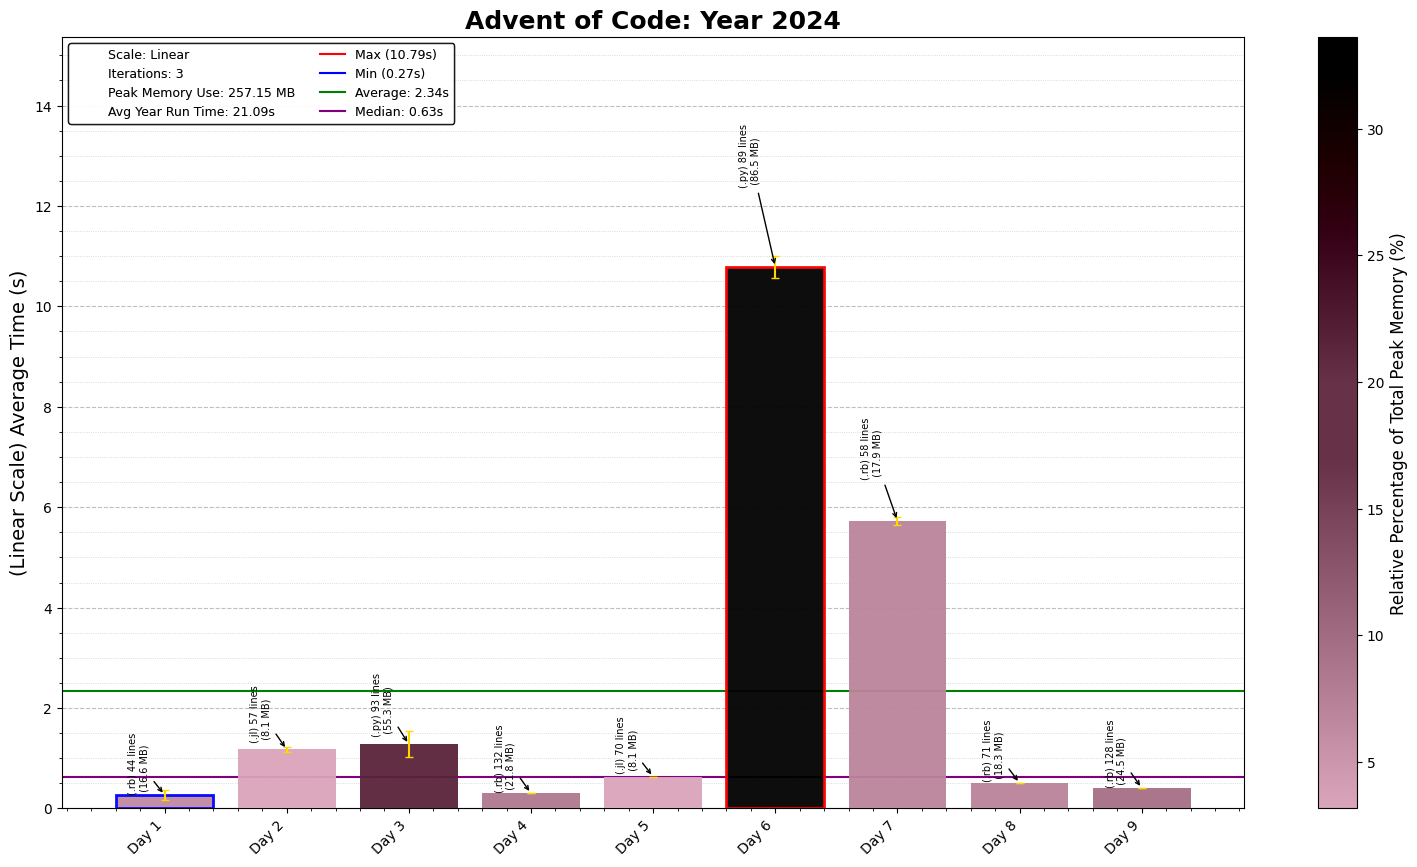
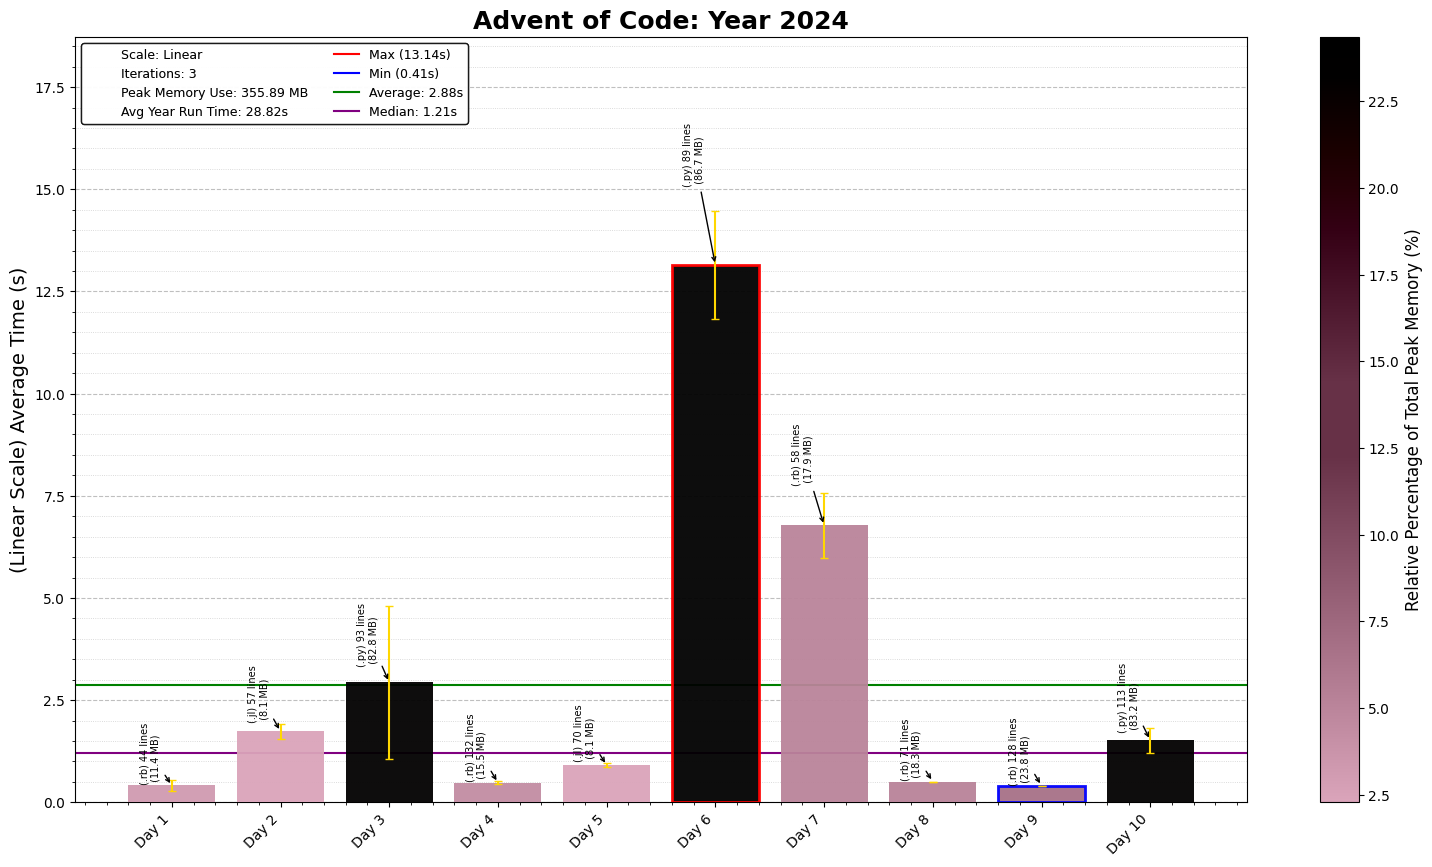
2024 Day 10

diff --git a/2024/10/2024Day10.py b/2024/10/2024Day10.py
@@ -1,0 +1,113 @@
+"""Advent of Code - Day 10, Year 2024
+Solution Started: Dec 10, 2024
+Puzzle Link: https://adventofcode.com/2024/day/10
+Solution by: abbasmoosajee07
+Brief: [Hiking Trails]
+"""
+
+#!/usr/bin/env python3
+
+import os, re, copy
+import numpy as np
+import pandas as pd
+import matplotlib.pyplot as plt
+from collections import deque
+
+# Load the input data from the specified file path
+D10_file = "Day10_input.txt"
+D10_file_path = os.path.join(os.path.dirname(os.path.abspath(__file__)), D10_file)
+
+# Read and sort input data into a grid
+with open(D10_file_path) as file:
+    input_data = file.read().strip().split('\n')
+    map_grid = np.array([[int(num) for num in list(row)] for row in input_data])
+
+def find_all_zeros(grid):
+    zeros_positions = []
+    for row in range(len(grid)):
+        for col in range(len(grid[0])):
+            if grid[row][col] == 0:
+                zeros_positions.append((row, col))
+    return zeros_positions
+
+def find_trails(grid, start):
+    rows, cols = len(grid), len(grid[0])  # Dimensions of the grid
+    visited = set()  # Track visited cells
+    queue = deque([start])  # Initialize the queue with the start cell
+    visited.add(start)  # Mark the start cell as visited
+    
+    # Directions for neighbors (up, down, left, right)
+    directions = [(-1, 0), (1, 0), (0, -1), (0, 1)]
+    
+    result = []  # To store all reachable cells with value 9
+    
+    while queue:
+        current = queue.popleft()  # Dequeue the front cell
+        row, col = current
+        pos_height = grid[row][col]  # Height of the current position
+        
+        # If the current cell has value 9, add it to the result
+        if pos_height == 9:
+            result.append(current)
+        
+        # Check all 4 possible neighbors
+        for dr, dc in directions:
+            r, c = row + dr, col + dc
+            
+            if 0 <= r < rows and 0 <= c < cols and (r, c) not in visited:
+                next_height = grid[r][c]
+                diff_height = (next_height - pos_height)
+                
+                # Move to the neighbor if the height difference constraint is satisfied
+                if diff_height == 1:
+                    visited.add((r, c))  # Mark neighbor as visited
+                    queue.append((r, c))  # Add neighbor to the queue
+    
+    return result
+
+def find_distinct_trails(grid, start):
+    rows, cols = len(grid), len(grid[0])  # Dimensions of the grid
+    directions = [(-1, 0), (1, 0), (0, -1), (0, 1)]  # Neighbor directions (up, down, left, right)
+    
+    # Queue to store current paths; each item is a path (list of cells)
+    queue = deque([[start]])
+    distinct_trails = []  # List to store all distinct trails
+
+    while queue:
+        current_path = queue.popleft()  # Dequeue the current trail
+        current_cell = current_path[-1]  # Get the last cell in the current path
+        row, col = current_cell
+        pos_height = grid[row][col]  # Height of the current position
+
+        # If the last cell in the trail has value 9, store this trail
+        if pos_height == 9:
+            distinct_trails.append(current_path)
+        
+        # Explore neighbors to extend the trail
+        for dr, dc in directions:
+            r, c = row + dr, col + dc
+            if 0 <= r < rows and 0 <= c < cols:  # Check bounds
+                next_height = grid[r][c]
+                diff_height = next_height - pos_height
+
+                # Move to the neighbor if the height difference constraint is satisfied
+                if diff_height == 1:
+                    # Prevent revisiting the same cell within the same path
+                    if (r, c) not in current_path:
+                        # Extend the current path
+                        new_path = current_path + [(r, c)]
+                        queue.append(new_path)
+
+    return distinct_trails
+
+all_trails_p1 = 0
+all_trails_p2 = 0
+all_start = find_all_zeros(map_grid)
+for start_pos in all_start:
+    trails_p1 = find_trails(map_grid, start_pos)
+    all_trails_p1 += len(trails_p1)
+    trails_p2 = find_distinct_trails(map_grid, start_pos)
+    all_trails_p2 += len(trails_p2)
+
+print("Part 1:", all_trails_p1)
+print("Part 2:", all_trails_p2)

diff --git a/2024/README_2024.md b/2024/README_2024.md
@@ -12,4 +12,5 @@ This repository contains coding solutions for the 2024 Advent of Code. Its the f
 6. **Day 6- Guard Gallivant**: *Ruby* | Pretty simple question overall with regards to the logic, but optimising it proved to be a fun challenge
 7. **Day 7- Bridge Repair**: *Ruby* | Various permutations to build a target number with different blocks using the operators '+','*' and then '||'. Pretty simple once I realised i didn't have to permutate through all the operators
 8. **Day 8- Resonant Collinearity**: *Ruby* | Find antinodes for any given antenna, Weird Wording which made the question really hard to understand
-9. **Day 9- Disk Fragmenter**: ** | Free up disk space by removing empty space and rearranging files. 
+9. **Day 9- Disk Fragmenter**: *Ruby* | Free up disk space by removing empty space and rearranging files.
+10. **Day 10- Hoof it**: *Python* | Simple BFS to find all valid paths on a 2d grid. Pretty standard algorithm that i adapted.
